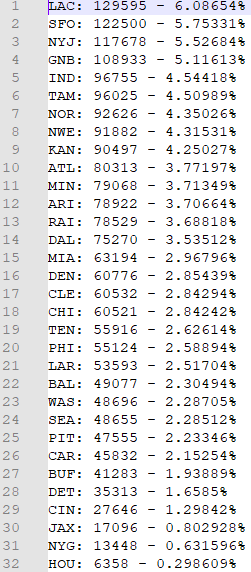
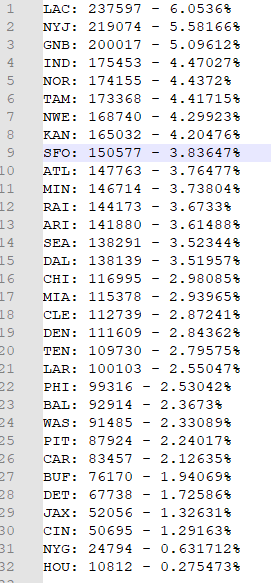
Finished 5500 TD data

diff --git a/notes/other/5500 tds/assets/code/player td data.js b/notes/other/5500 tds/assets/code/player td data.js
@@ -22,9 +22,17 @@ $(document).ready(function() {
     });
 });
 
+let maxPlayers = 100;
+let posAllowed = POSITIONS.map(s => document.getElementById(s).checked);
+let teamsAllowed = Array.from(document.getElementById("teams")).map(option => option.value);
+let nameAllowed = document.getElementById("name").innerHTML;
+let minTDs = document.getElementById("minTD").value;
+let sortElement;
+let sortType = 0;
 let currentData = DATA.slice();
 let table = document.getElementById("table");
 
+applyFilter();
 updateTable();
 function updateTable() {
     table.getElementsByTagName("tbody")[0].remove();
@@ -45,11 +53,11 @@ function updateTable() {
         tds.classList.add("formatted");
         tr.appendChild(tds);
         let teams = document.createElement("td");
-        teams.innerHTML = p["teams"];
+        teams.innerHTML = p["teams"].toString().replaceAll(",",", ");
         teams.classList.add("formatted");
         tr.appendChild(teams);
         table.getElementsByTagName("tbody")[0].appendChild(tr);
-        if (table.rows.length > 100) {
+        if (table.rows.length > maxPlayers) {
             break;
         }
     }
@@ -57,7 +65,6 @@ function updateTable() {
 
 function sort(column, type) {
     if (type == 0) {
-        currentData = DATA.slice();
         applyFilter();
         return;
     }
@@ -89,31 +96,69 @@ function sortCycle(element) {
     }
 }
 function tableSort(e) {
-    let element = e.target;
+    sortElement = e.target;
     for (let td of table.getElementsByTagName("thead")[0].getElementsByTagName("tr")[0].children) {
-        if (element !== td) {
+        if (sortElement !== td) {
             td.classList.remove("headerSortDown");
             td.classList.remove("headerSortUp");
         }
     }
-    let sortType = sortCycle(element);
-    sort(element.getAttribute("data-type"),sortType);
+    sortType = sortCycle(sortElement);
+    sort(sortElement.getAttribute("data-type"),sortType);
     updateTable();
 }
 
+
 function applyFilter() {
-    
+    currentData = DATA.slice();
+    currentData = currentData.filter(p => {
+        if (teamsAllowed.length > 0) {
+            let hasTeam = false;
+            for (let t of teamsAllowed) {
+                if (p["teams"].includes(t)) {
+                    hasTeam = true;
+                    break;
+                }
+            }
+            if (!hasTeam) {
+                return false;
+            }
+        }
+        if (POSITIONS.indexOf(p["pos"]) != -1) {
+            if (!posAllowed[POSITIONS.indexOf(p["pos"])]) {
+                return false;
+            }
+        } else {return false;}
+        if (!p["name"].toLowerCase().includes(nameAllowed.toLowerCase())) {
+            return false;
+        }
+        if (p["td"] < minTDs) {
+            return false;
+        }
+        return true;
+    });
+    if (sortType !== 0 && sortElement !== undefined) {
+        sort(sortElement.getAttribute("data-type"), sortType);
+    }
+    updateTable();
+}
+function maxPlayersFilter(e) {
+    maxPlayers = e.target.value;
+    updateTable();
 }
 function posFilter(e) {
-    console.log(e.target.value);
+    posAllowed[POSITIONS.indexOf(e.target.id)] = e.target.checked;
+    applyFilter();
 }
 function teamFilter(e) {
-    let teams = Array.from(e.target.selectedOptions).map(option => option.value);
-    console.log(teams);
+    teamsAllowed = Array.from(e.target.selectedOptions).map(option => option.value);
+    applyFilter();
 }
 function nameFilter(e) {
-    console.log(e.target.value);
+    nameAllowed = e.target.value
+    applyFilter();
 }
 function minTDFilter(e) {
-    console.log(e.target.value);
+    minTDs = e.target.value
+    applyFilter();
 }

diff --git a/notes/other/5500 tds/is 5500 tds possible.html b/notes/other/5500 tds/is 5500 tds possible.html
@@ -16,8 +16,8 @@
             <h3>TL;DR</h3>
             <p><b>Yes, </b>it is possible. </p>
             <p>I simulated 5500 TDs 100,000,000 times</p>
-            <p>The chance of success is $\frac{88717}{100,000,000} = .088717 \%$</p>
-            <p>At this rate there should be a succsessful attempt around attempt 1130</p>
+            <p>The chance of success is $\frac{163537}{100,000,000} = .1635 \%$</p>
+            <p>At this rate there should be a succsessful attempt around attempt 610</p>
             <hr>
             <h3>What is 5500 TDs?</h3>
             <p>5500 TDs is an NFL related TikTok challenge</p>
@@ -79,17 +79,17 @@
             <p>The next thing I did was to use multi-threadhing to split the work where each thread did its own attempt</p>
             <hr>
             <h3>Final Results</h3>
-            <p>Using 5 threads on an Intel I5-8400, it took 8946s, which is around 2.5 hours, to do 100,000,000 attempts</p>
-            <p>Out of the 100 million attempts, only 88,717 were succsessful</p>
-            <p>The averge TDs for an attempt was 4869.21 TDs</p>
-            <p>The best attempt was 5675 TDs</p>
+            <p>Using 5 threads on an Intel I5-8400, it took 10,000s, which is around 2.5 hours, to do 100,000,000 attempts</p>
+            <p>Out of the 100 million attempts, only 163,537 were succsessful</p>
+            <p>The averge TDs for an attempt was 4911.79 TDs</p>
+            <p>The best attempt was 5687 TDs</p>
             <hr>
             <h3>Analysis</h3>
             <p>Using the DataAnalysis.cpp file, I found the frequency each player and team were selected</p>
             <p>What it showed how many succsessful attempts had a player chosen</p>
             <p>Before I announce it, I want you to think which players are mandatory for a succsessful attempt</p>
             <p>Something that surprised me was that it was only 1 mandatory player, the GOAT, Tom Brady</p>
-            <p>If you had thought Drew Brees was mandatory, there was one succsessful attempt where he wasn't taken, it was <a href="assets/json/attempt 4465511.json">Attempt #4465511</a></p>
+            <p>If you had thought Drew Brees was mandatory, there was some succsessful attempts where he wasn't taken, like <a href="assets/json/attempt 4465511.json">Attempt #4465511</a></p>
             <p>Aside from that there were some players that showed up in most attempts, which naturally are the leaders of TDs at their postions</p>
             <img src="assets/images/playerFrequency.png">
             <p>The next thing the data analysis did was to get the team frequency</p>

diff --git a/notes/other/5500 tds/5500 tds challenge.html b/notes/other/5500 tds/5500 tds challenge.html
@@ -16,7 +16,7 @@
             <img id="logo">
             <label id="playerSelectLabel" for="playerSelect">Choose Player:</label>
 
-            <input type="text" id="playerSelect" name="playerSelect" list="players" style="width: 100%;" oninput="onPlayerSelectInput()">
+            <input type="text" id="playerSelect" name="playerSelect" list="players" style="width: 100%;" oninput="onPlayerSelectInput()" onkeypress="onPlayerSelectKeyPress(event);">
             <datalist id="players">
 
             </datalist>

diff --git a/notes/other/5500 tds/assets/code/5500 tds.js b/notes/other/5500 tds/assets/code/5500 tds.js
@@ -85,6 +85,13 @@ function selectPlayer() {
         document.getElementById("players").innerHTML = "";
     }
 }
+function onPlayerSelectKeyPress(e) {
+    if (e.key == "Enter") {
+        if (!document.getElementById("selectPlayer").hidden) {
+            selectPlayer();
+        }
+    }
+}
 function onPlayerSelectInput() {
     let chosen = document.getElementById("playerSelect").value.toLowerCase();
     let player;

diff --git a/notes/other/5500 tds/player td data.html b/notes/other/5500 tds/player td data.html
@@ -70,6 +70,9 @@
                 <option>LAR</option> 
                 <option>SEA</option> 
             </select>
+            <label for="maxPlayers">Max Players:</label>
+            <input type="number" name="maxPlayers" id="maxPlayers" value="100" onkeypress="validateNumber(event);" oninput="maxPlayersFilter(event);">
+
         </div>
         <table id="table" class="formatted">
             <thead>
